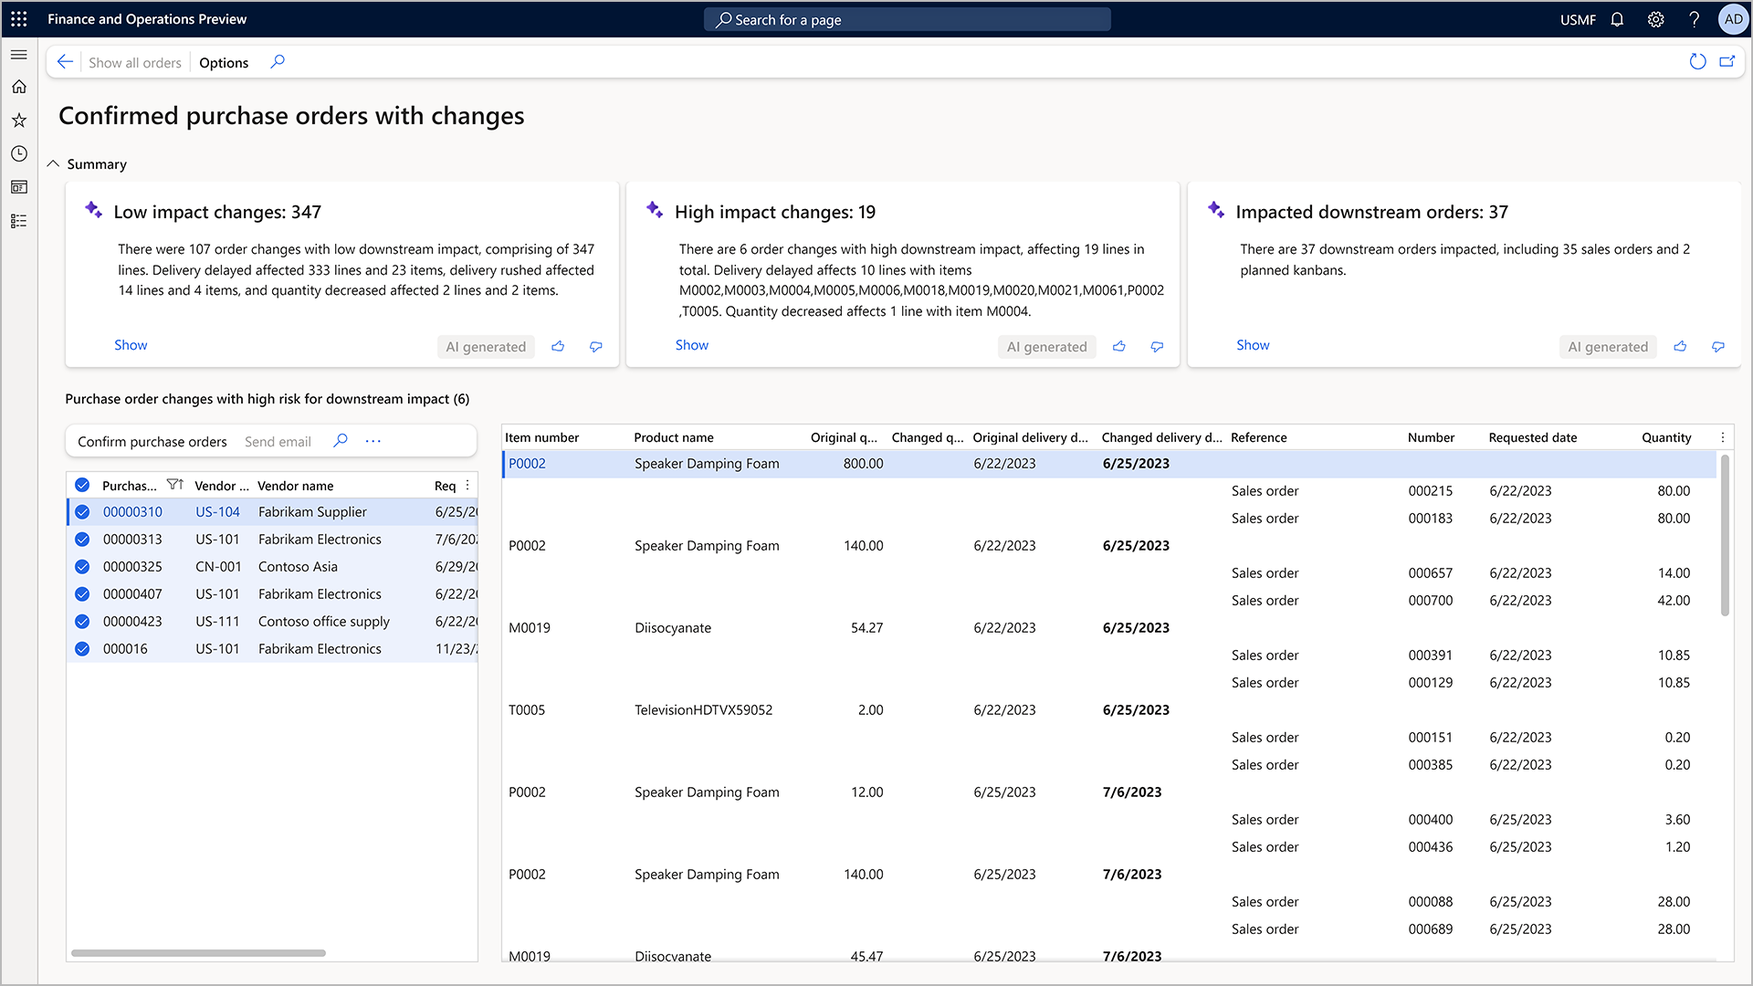
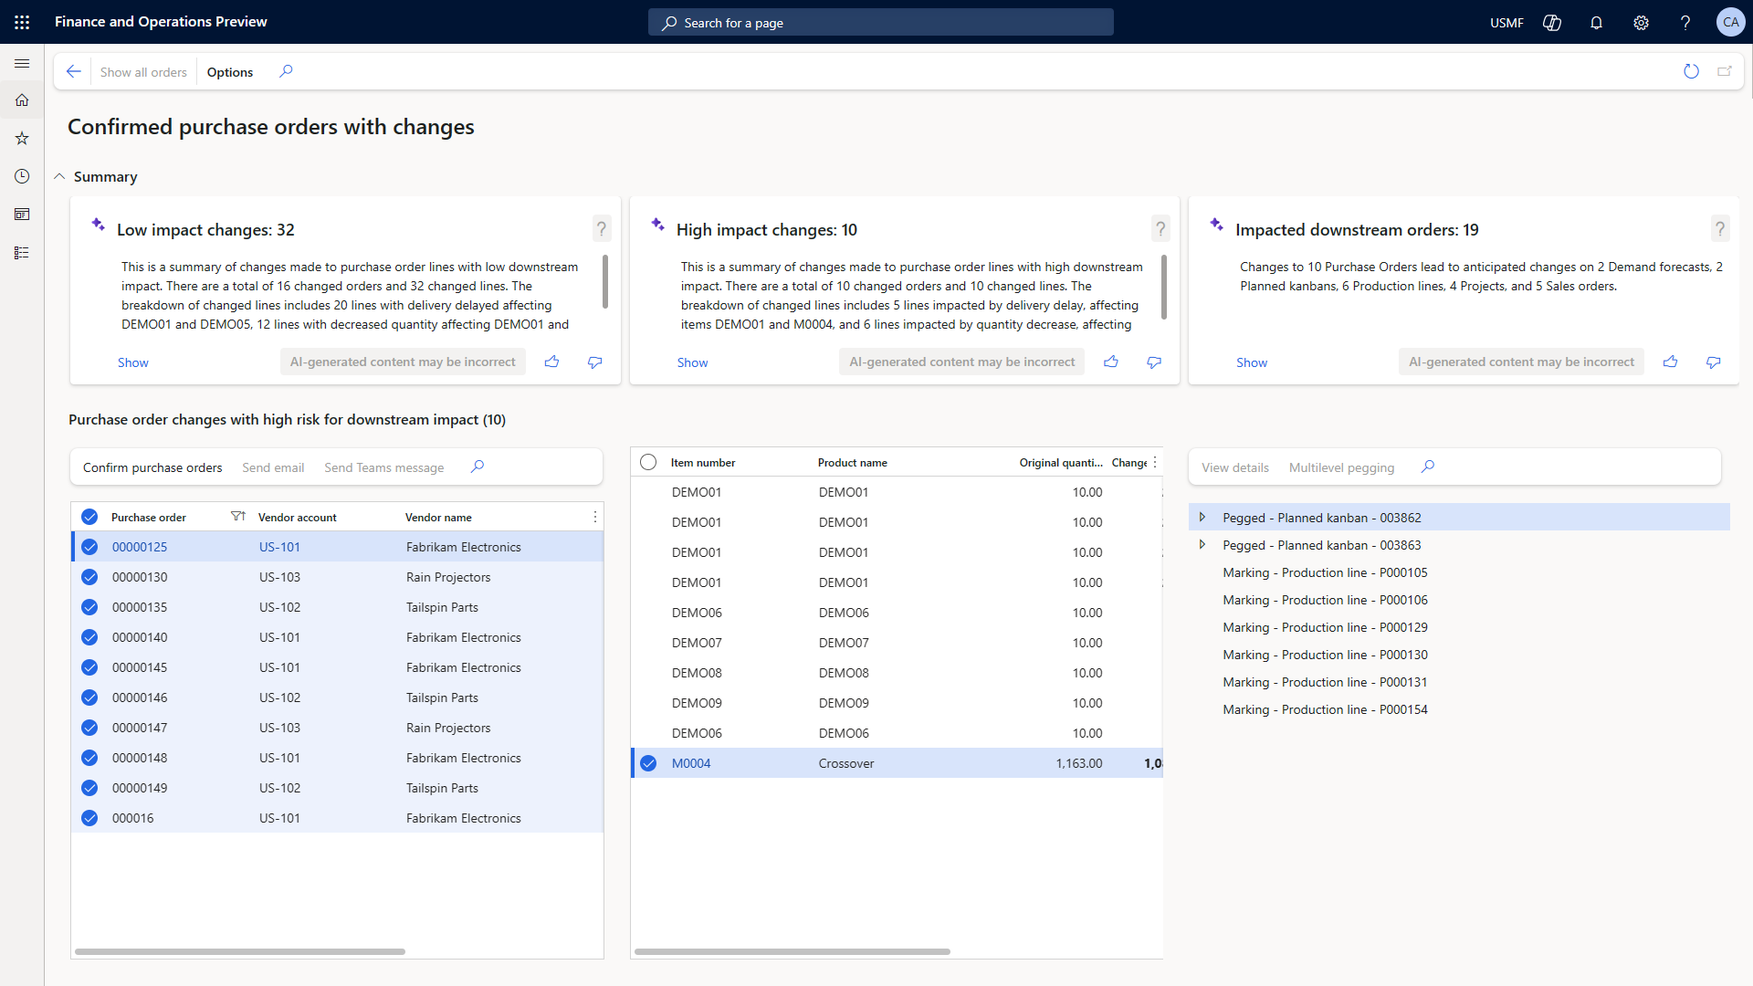
PO Workspace GA updates

diff --git a/articles/supply-chain/procurement/purchase-order-changes-after-confirmation.md b/articles/supply-chain/procurement/purchase-order-changes-after-confirmation.md
@@ -1,6 +1,6 @@
 ---
 title: Review and accept changes to confirmed purchase orders
-description: This article describes the Confirmed purchase orders with changes workspace, where you can review and accept changes to confirmed purchase orders, based on their downstream impact.
+description: This article describes how o use the Confirmed purchase orders with changes workspace, where you can review and accept changes to confirmed purchase orders, based on their downstream impact.
 author: cabeln
 ms.author: cabeln
 ms.reviewer: kamaybac
@@ -17,112 +17,31 @@ ms.custom: bap-template
 [!include [banner](../includes/banner.md)]
 
 > [!IMPORTANT]
-> The AI-powered and Copilot functionality that's described in this article is available as part of a preview release. All other functionality is generally available. The content and the functionality related to AI-powered and Copilot functionality are subject to change. For more information about preview releases, see [One version service updates FAQ](/dynamics365/unified-operations/fin-and-ops/get-started/one-version).
->
-> **During this preview phase, the summaries of changes and downstream impacts are available only in environments that are hosted in the United States (US)**, and they are shown only in English. All other functionality is globally available.
->
-> To learn about the capabilities and limitations of AI-powered and Copilot features in Microsoft Dynamics 365 Supply Chain Management, see [Responsible AI FAQs for Dynamics 365 Supply Chain Management](../responsible-ai-overview.md).
+> To learn about the capabilities and limitations of AI-powered Copilot features in Microsoft Dynamics 365 Supply Chain Management, see [Responsible AI FAQs for Dynamics 365 Supply Chain Management](../responsible-ai-overview.md).
 
 <!--KFM: Preview until further notice -->
 
-During procurement planning, any changes that are made to confirmed purchase orders can have a significant impact on downstream processes such as planned production, service work, or sales orders. The new **Confirmed purchase orders with changes** workspace makes it fast and easy to identify and reconfirm changes that have only a low risk of downstream impact. Therefore, procurement managers can focus on high-impact changes to assess downstream order impacts and communicate directly with vendors.
+During procurement planning, any changes that are made to confirmed purchase orders can have a significant impact on downstream planned demand such as production, service work, or sales orders. The new **Confirmed purchase orders with changes** workspace makes it fast and easy to identify and reconfirm changes that have only a low risk of downstream impact and then focus on high-impact changes, to assess details of the downstream impacts and communicate directly with vendors.
 
 This feature is part of the *Procurement with Copilot* feature set, which is a growing collection of features that use AI to help procurement managers with their daily procurement tasks.
-
-## Enable the feature for your system
-
-This section describes the steps that you must complete to enable the **Confirmed purchase orders with changes** workspace and the related Copilot support.
-
-- Steps 1 and 2 enable the **Confirmed purchase orders with changes** workspace.
-- Steps 3 through 6 enable the support by Copilot for this workspace that provides, for example, natural-language change summaries and communication drafts. These steps require that your environment is enabled for Power Platform integration. For more information, see [Enable Power Platform integration](../../fin-ops-core/dev-itpro/power-platform/enable-power-platform-integration.md).
-
-### Step 1: Upgrade Supply Chain Management to the required build
-
-You must be running Supply Chain Management 10.0.34 or later.
-
-This feature was added in builds that came out after the initial release of versions 10.0.34 and 10.0.35. If you're running one of those versions, you must update your version as described here:
-
-- If you're running Supply Chain Management version 10.0.34, you must upgrade the Application Suite to version 10.25.1372 (or later). This version is included in build 10.0.1591.72 (or later) of finance and operations apps.
-- If you're running Supply Chain Management version 10.0.35, you must upgrade the Application Suite to version 10.26.1075 (or later). This version is included in build 10.0.1627.33 (or later) of finance and operations apps.
-
-### Step 2: Enable the workspace feature in Feature management
-
-In the [**Feature management**](../../fin-ops-core/fin-ops/get-started/feature-management/feature-management-overview.md) workspace, turn on the feature that's named *Review changes to confirmed purchase orders based on downstream impact*. As of Supply Chain Management version 10.0.36, this feature is turned on by default.
-
-### <a name="enable-sql-key"></a>Step 3: Enable the SQL row version change tracking license key
-
-Follow these steps to check the status of the **Sql row version change tracking (Preview)** license key and enable it if necessary. If the key isn't enabled, you'll get an error when you try to install the Copilot application in the Power Platform admin center.
-
-1. Go to **System administration \> Setup \> License configuration**.
-1. On the **Configuration keys** tab, scroll down the **Sql row version change tracking (Preview)** key. If the key is already enabled, then skip the rest of this procedure. If it isn't enabled, then continue to the next step.
-1. Put your system into maintenance mode, as described in [Maintenance mode](../../fin-ops-core/dev-itpro/sysadmin/maintenance-mode.md).
-1. Return to the **License configuration** and enable the **Sql row version change tracking (Preview)** key.
-1. Turn off maintenance mode, as described in [Maintenance mode](../../fin-ops-core/dev-itpro/sysadmin/maintenance-mode.md).
-
-### Step 4: Upgrade the Finance and Operations Virtual Entity solution
-
-Follow these steps to upgrade the *Finance and Operations Virtual Entity* solution.
-
-1. Go to [Power Platform admin center](https://admin.powerplatform.microsoft.com/).
-1. Select the Power Platform environment that's connected to your finance and operations app, and open the detail view.
-1. In the **Resources** field, select **Dynamics 365 apps**.
-1. Find the app that's named *Finance and Operations Virtual Entity*.
-1. If the status is *Installed*, you're already running the latest version. If the status is *Update available*, you must update the solution by following these steps:
-
-    1. Select the ellipsis button (**&hellip;**), and then select **Update**.
-    1. Accept the terms of service, and then select **Update**.
-
-You can follow the status of the update. During the update, the status is *Installing*. After the update is completed, the status changes to *Installed*.
-
-### Step 5: Enable Supply Chain Management to access your Dataverse environment
-
-Follow these steps to enable Supply Chain Management to access your Dataverse environment.
-
-1. Go to [Power Platform admin center](https://admin.powerplatform.microsoft.com/).
-1. Select the Dataverse environment that's connected to your Supply Chain Management environment, and open the detail view.
-1. Select the **Settings** menu on the menu bar.
-1. Go to **Product \> Features**.
-1. Set the **Finance and Operations in Dataverse** option to *On*.
-
-### Step 6: Install the Copilot application in Supply Chain Management
-
-> [!NOTE]
-> During this preview phase, the Copilot application can only be installed for environments that are hosted in the US.
-
-Follow these steps to install the Copilot application in your Supply Chain Management environment.
-
-1. Go to the [Copilot in Microsoft Dynamics 365 Supply Chain Management](https://appsource.microsoft.com/product/dynamics-365/mscrm.dynamicsscmai-preview?flightCodes=f42a7338c806438f8fca820c4ed82b7c&tab=Overview) page in the Microsoft commercial marketplace.
-1. Select **Get it now**.
-1. The deployment process opens [Power Platform admin center](https://admin.powerplatform.microsoft.com/). Select the Dataverse environment that's connected to your Supply Chain Management environment to install the Copilot application.
-
-    > [!IMPORTANT]
-    > **Troubleshooting:** You may see the following error message while installing the Copilot application in the Power Platform admin center: "Unable to complete updates to the Track changes option for table: 'EcoResProductTranslationAIEntity'. Exception details: This functionality requires enabling sql row version change tracking feature. Please enable SQL Row version configuration key." If you see this error, follow the instructions given in [Step 3: Enable the SQL row version change tracking license key](#enable-sql-key).
-
-1. You can follow the status of the installation by opening the detail view of the environment. In the **Resources** field, select **Dynamics 365 apps**. The status of the Copilot application is **Installing**. After the installation is complete, the status changes to **Installed**. If an error occurs, the status changes to **Failed** and you can find details about the error in the **Notifications** field.
-
-### Step 7: Enable the required security roles
-
-Users who should have access to the functionality must be assigned the *AIB Roles* and *Finance and Operations AI* security roles in Dataverse.
-
-In the detail view of the environment, in the **Access** field, select **Users** or **Teams**. Select the users or teams that should have access, and assign the *AIB Roles* and *Finance and Operations AI* security roles to them.
 
 ## The Confirmed purchase orders with changes workspace
 
 To open the workspace, go to **Procurement and sourcing \> Workspaces \> Confirmed purchase orders with changes**.
 
-[<img src="media/po-change-review-highimpact.png" alt="Screenshot of the Confirmed purchase orders with changes workspace." title="Screenshot of the Confirmed purchase orders with changes workspace" width="720" />](media/po-change-review-highimpact.png#lightbox)
+[<img src="media/po-change-review-highimpact-all-selected.png" alt="Screenshot of the Confirmed purchase orders with changes workspace." title="Screenshot of the Confirmed purchase orders with changes workspace" width="720" />](media/po-change-review-highimpact-all-selected.png#lightbox)
 
-The workspace lists all previously confirmed purchase orders that have been changed since confirmation. It helps the review process by identifying potential impacts on production work, service work orders, and sales orders.
+The workspace lists all previously confirmed supplying purchase orders that have been changed since confirmation. It helps in the review process by identifying potential impacts on demand such as production work, service work orders, and sales orders.
 
-At the top of the workspace, the three tiles summarize groups of changes to confirmed purchase orders and the related downstream impacts. 
+The relations between supplying purchase orders and demand can originate from different sources, such as pegging from master panning, [inventory markings](../master-planning/planning-optimization/marking.md) and purchase orders created for demand in projects.
 
-In preview, the grouping is predefined and limited to pegged orders that have been created by planning.
+At the top of the workspace, the three tiles summarize groups of changes to confirmed purchase orders and the related impact on downstream demand.
 
-- **Low impact changes** – This tile highlights changes to purchase orders that have no known impact on downstream orders that have been created by planning, also called pegged orders. A summary of changes is generated to help you review and validate the purchase orders.
-- **High impact changes** – This tile highlights purchase orders that have known downstream impacts on pegged orders. These high-risk changes are summarized together with the detected impacts, to help you investigate further and decide what action to take.
-- **Impacted downstream orders** – This tile summarizes impacts on pegged orders by the number and type of orders, and it shows the purchase order changes that cause each impact. This information helps you review potential downstream impacts based on the latest master planning run.
+- **Low impact changes** – This tile highlights changes to purchase orders that have no known impact on downstream demand. No known impact is assumed if any changes to quantity of delivery dates do not impact those requirements from demand, for example an earlier date or increased quantity. A summary of changes is generated to help you review and validate the purchase orders.
+- **High impact changes** – This tile highlights purchase orders that have known downstream impacts on demand. These changes are summarized together with the detected demand impacts, to help you investigate further and decide what action to take.
+- **Impacted downstream orders** – This tile summarizes impacts on different kinds of downstream demand orders by total per type of orders. This information helps you review potential impacts on demand and identify each originating change.
 
-Each tile provides a **Show** link, which lets you filter the list of purchase orders and purchase order lines. The list includes columns for the original and new quantities, original and new confirmed receipt dates, and so on.
+Each tile provides a **Show** link, which will change the view below to show the changes to supplying purchase orders and the impacted demand accrording to the tiles's classification and filter.
 
 ## Review changes to confirmed purchase orders
 
@@ -130,8 +49,8 @@ Purchasers use the workspace to review and accept changes to confirmed purchase 
 
 1. Study all changes to confirmed purchase orders and their downstream impact.
 1. Focus on changes that have a low risk of downstream impact.
-1. Review changes that have a high risk of downstream impact.
-1. Review the remaining downstream impact.
+1. Review changes that have a high risk of downstreamd impact.
+1. Review the remaining impact on downstream demand orders.
 
 The following subsections describe these steps in more detail.
 
@@ -172,7 +91,7 @@ From this view, you can reach out to a vendor using email or Microsoft Teams. Us
 
 After you've communicated with the vendor, you can update the order further and then send it back to the vendor for confirmation. Alternatively, you might cancel the order and plan for alternative supply.
 
-### Step 4: Review the remaining downstream impact
+### Step 4: Review the remaining impact on downstream demand orders
 
 After most of the order changes have been addressed, the purchaser can review the overall downstream impact of the remaining open order changes.
 

diff --git a/articles/supply-chain/procurement/purchase-order-changes-after-confirmation-enable.md b/articles/supply-chain/procurement/purchase-order-changes-after-confirmation-enable.md
@@ -1,0 +1,106 @@
+---
+title: Enable Copilot support to review and accept changes to confirmed purchase orders
+description: This article describes how to enable Copilot support for the Confirmed purchase orders with changes workspace, where you can review and accept changes to confirmed purchase orders, based on their downstream impact.
+author: cabeln
+ms.author: cabeln
+ms.reviewer: kamaybac
+ms.search.form: PurchTable, PurchTablePart, PurchOrderInReview, PurchOrderApproved, PurchOrderInDraft, PurchOrderAssignedToMe, VendPurchOrderJournalListPage, PurchTableWorkflowDropDialog, VendPurchOrderJournal
+ms.topic: how-to
+ms.date: 07/06/2023
+audience: Application User
+ms.search.region: Global
+ms.custom: bap-template
+---
+
+# Enable Copilot support to review and accept changes to confirmed purchase orders
+
+[!include [banner](../includes/banner.md)]
+
+> [!IMPORTANT]
+> The AI-powered and Copilot functionality that's described in this article is available as part of a preview release. All other functionality is generally available. The content and the functionality related to AI-powered and Copilot functionality are subject to change. For more information about preview releases, see [One version service updates FAQ](/dynamics365/unified-operations/fin-and-ops/get-started/one-version).
+>
+> **During this preview phase, the summaries of changes and downstream impacts are available only in environments that are hosted in the United States (US)**, and they are shown only in English. All other functionality is globally available.
+>
+> To learn about the capabilities and limitations of AI-powered and Copilot features in Microsoft Dynamics 365 Supply Chain Management, see [Responsible AI FAQs for Dynamics 365 Supply Chain Management](../responsible-ai-overview.md).
+
+<!--KFM: Preview until further notice -->
+
+This steps in this article are used by admins to enable capabilities that are part of the *Procurement with Copilot* feature set, which is a growing collection of features that use AI to help procurement managers with their daily procurement tasks.
+
+## Steps to enable the feature for your system
+
+This section describes the steps that you must complete to enable the **Confirmed purchase orders with changes** workspace and the related Copilot support.
+
+- Steps 3 through 6 enable the support by Copilot for this workspace that provides, for example, natural-language change summaries and communication drafts. These steps require that your environment is enabled for Power Platform integration. For more information, see [Enable Power Platform integration](../../fin-ops-core/dev-itpro/power-platform/enable-power-platform-integration.md).
+
+
+### <a name="enable-sql-key"></a>Step 3: Enable the SQL row version change tracking license key
+
+Follow these steps to check the status of the **Sql row version change tracking (Preview)** license key and enable it if necessary. If the key isn't enabled, you'll get an error when you try to install the Copilot application in the Power Platform admin center.
+
+1. Go to **System administration \> Setup \> License configuration**.
+1. On the **Configuration keys** tab, scroll down the **Sql row version change tracking (Preview)** key. If the key is already enabled, then skip the rest of this procedure. If it isn't enabled, then continue to the next step.
+1. Put your system into maintenance mode, as described in [Maintenance mode](../../fin-ops-core/dev-itpro/sysadmin/maintenance-mode.md).
+1. Return to the **License configuration** and enable the **Sql row version change tracking (Preview)** key.
+1. Turn off maintenance mode, as described in [Maintenance mode](../../fin-ops-core/dev-itpro/sysadmin/maintenance-mode.md).
+
+### Step 4: Upgrade the Finance and Operations Virtual Entity solution
+
+Follow these steps to upgrade the *Finance and Operations Virtual Entity* solution.
+
+1. Go to [Power Platform admin center](https://admin.powerplatform.microsoft.com/).
+1. Select the Power Platform environment that's connected to your finance and operations app, and open the detail view.
+1. In the **Resources** field, select **Dynamics 365 apps**.
+1. Find the app that's named *Finance and Operations Virtual Entity*.
+1. If the status is *Installed*, you're already running the latest version. If the status is *Update available*, you must update the solution by following these steps:
+
+    1. Select the ellipsis button (**&hellip;**), and then select **Update**.
+    1. Accept the terms of service, and then select **Update**.
+
+You can follow the status of the update. During the update, the status is *Installing*. After the update is completed, the status changes to *Installed*.
+
+### Step 5: Enable Supply Chain Management to access your Dataverse environment
+
+Follow these steps to enable Supply Chain Management to access your Dataverse environment.
+
+1. Go to [Power Platform admin center](https://admin.powerplatform.microsoft.com/).
+1. Select the Dataverse environment that's connected to your Supply Chain Management environment, and open the detail view.
+1. Select the **Settings** menu on the menu bar.
+1. Go to **Product \> Features**.
+1. Set the **Finance and Operations in Dataverse** option to *On*.
+
+### Step 6: Install the Copilot application in Supply Chain Management
+
+> [!NOTE]
+> During this preview phase, the Copilot application can only be installed for environments that are hosted in the US.
+
+Follow these steps to install the Copilot application in your Supply Chain Management environment.
+
+1. Go to the [Copilot in Microsoft Dynamics 365 Supply Chain Management](https://appsource.microsoft.com/product/dynamics-365/mscrm.dynamicsscmai-preview?flightCodes=f42a7338c806438f8fca820c4ed82b7c&tab=Overview) page in the Microsoft commercial marketplace.
+1. Select **Get it now**.
+1. The deployment process opens [Power Platform admin center](https://admin.powerplatform.microsoft.com/). Select the Dataverse environment that's connected to your Supply Chain Management environment to install the Copilot application.
+
+    > [!IMPORTANT]
+    > **Troubleshooting:** You may see the following error message while installing the Copilot application in the Power Platform admin center: "Unable to complete updates to the Track changes option for table: 'EcoResProductTranslationAIEntity'. Exception details: This functionality requires enabling sql row version change tracking feature. Please enable SQL Row version configuration key." If you see this error, follow the instructions given in [Step 3: Enable the SQL row version change tracking license key](#enable-sql-key).
+
+1. You can follow the status of the installation by opening the detail view of the environment. In the **Resources** field, select **Dynamics 365 apps**. The status of the Copilot application is **Installing**. After the installation is complete, the status changes to **Installed**. If an error occurs, the status changes to **Failed** and you can find details about the error in the **Notifications** field.
+
+### Step 7: Enable the required security roles
+
+Users who should have access to the functionality must be assigned the *AIB Roles* and *Finance and Operations AI* security roles in Dataverse.
+
+In the detail view of the environment, in the **Access** field, select **Users** or **Teams**. Select the users or teams that should have access, and assign the *AIB Roles* and *Finance and Operations AI* security roles to them.
+
+## Troubleshoot the Copilot configuration
+
+The Copilot experience in the procureent workspace offers a trouble shooting capability that helps to identify missing configuration steps. If one of the configurtion steps is not complete the Copilot summarization tiles will offer a trouble shooting link.
+
+[<img src="media/po-change-review-trouble-shooting.png" alt="Screenshot of the Confirmed purchase orders with changes workspace." title="Screenshot of the trouble shooter for Copilot configuration." width="720" />](media/po-change-review-trouble-shooting.png#lightbox)
+
+The link offer opens the trouble shooting, which checks all installation and configuration requirements needed for Copilot to function. It marks the steps that need attention.
+
+You can complete those configuration steps in a seperate Browser Tab and press Recheck to reevaluate the completeness of the configuration.  
+
+## See also
+- [How to use the Confirmed purchase orders with changes workspace](./purchase-order-changes-after-confirmation.md)
+- [Responsible AI FAQ for the Confirmed purchase orders with changes workspace](../faq-confirmed-po-changes.md)
